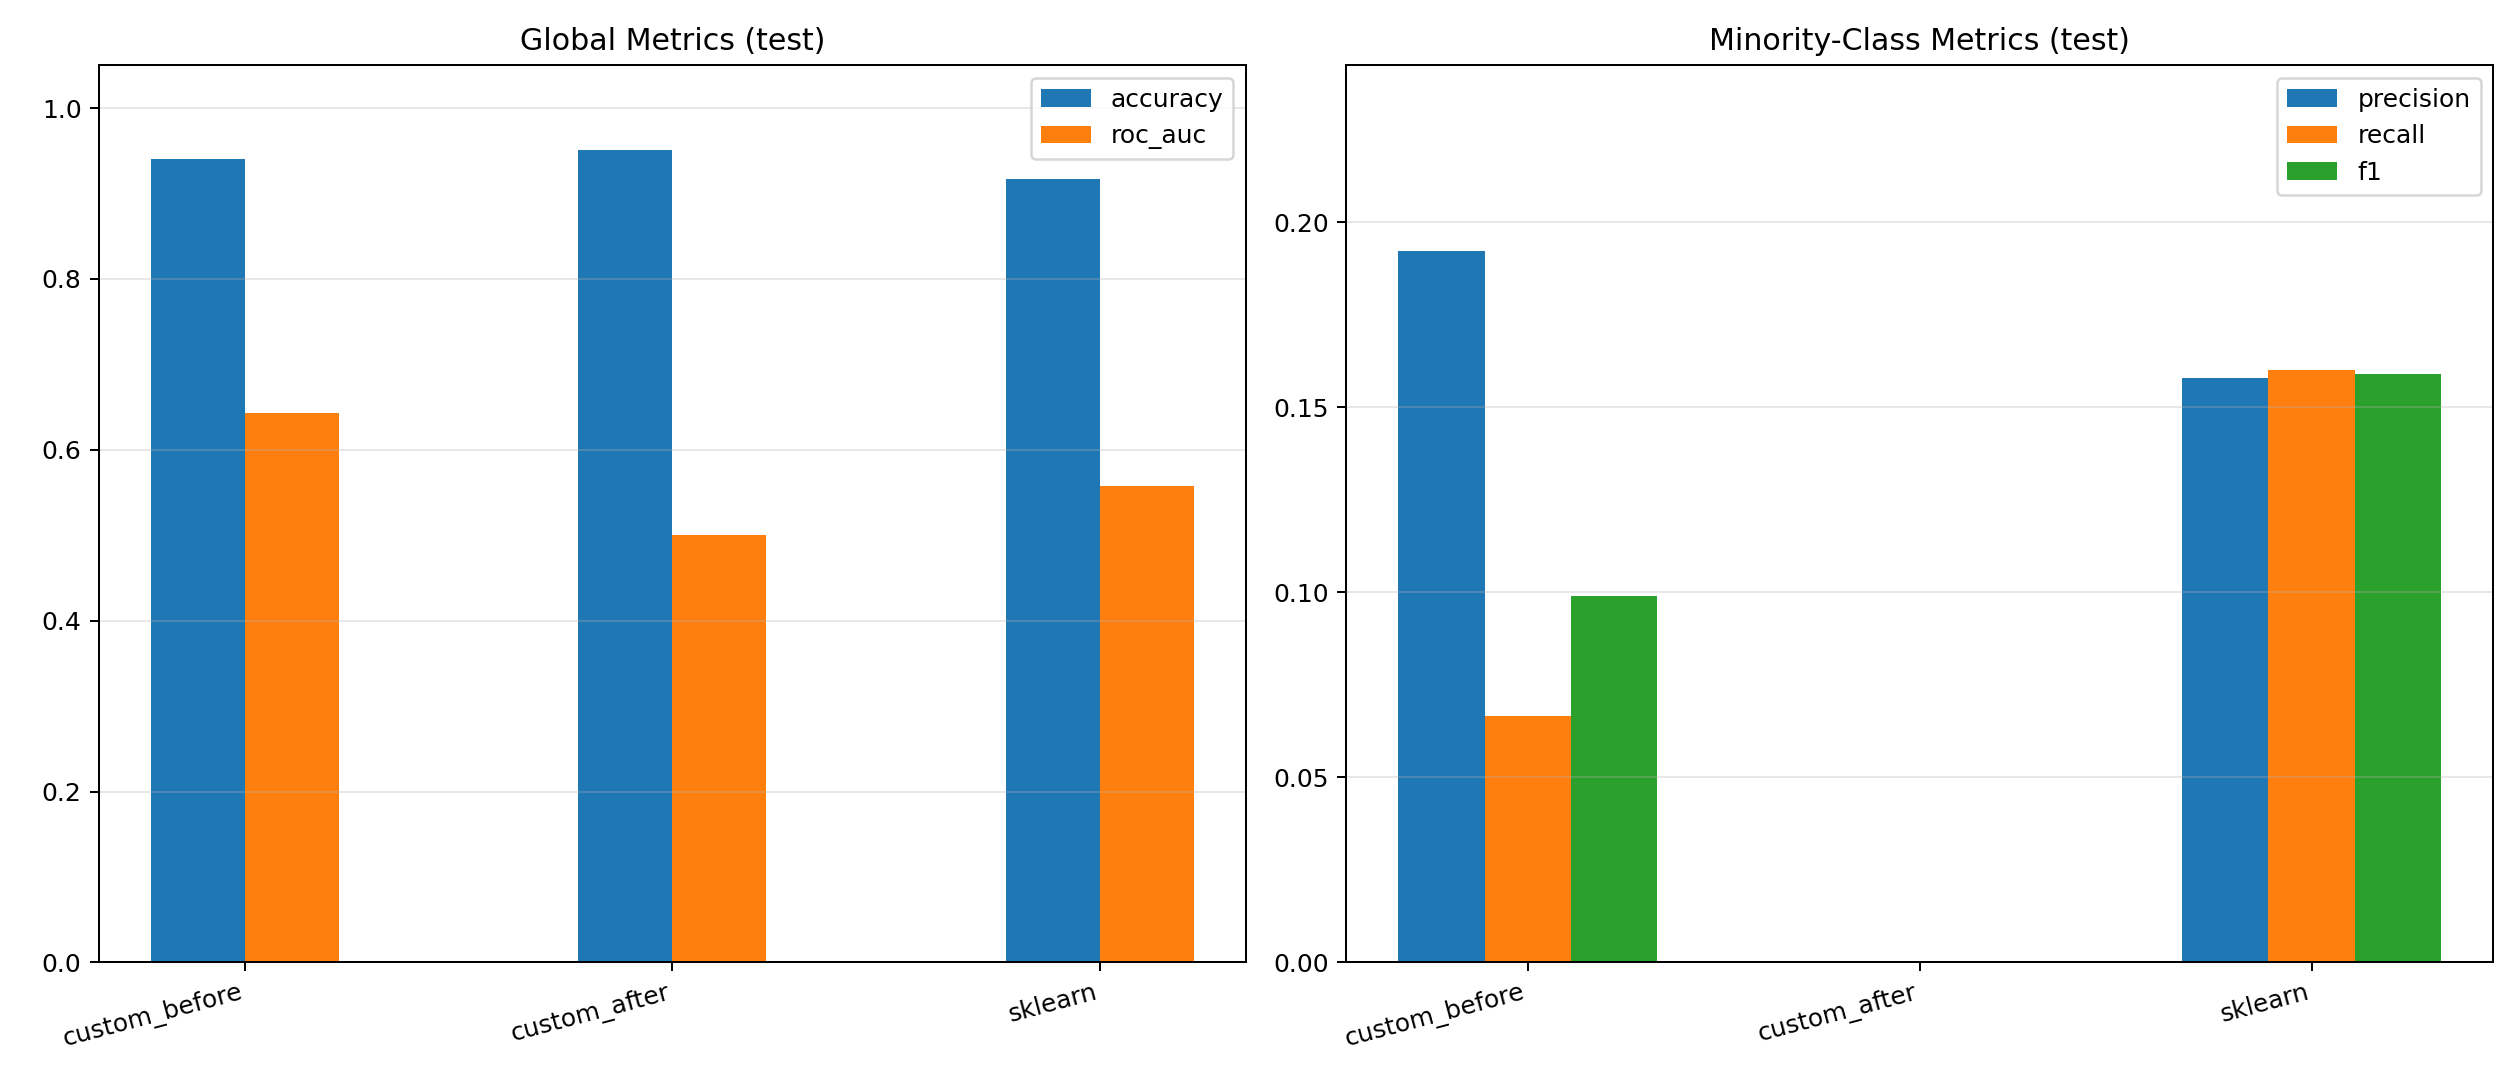
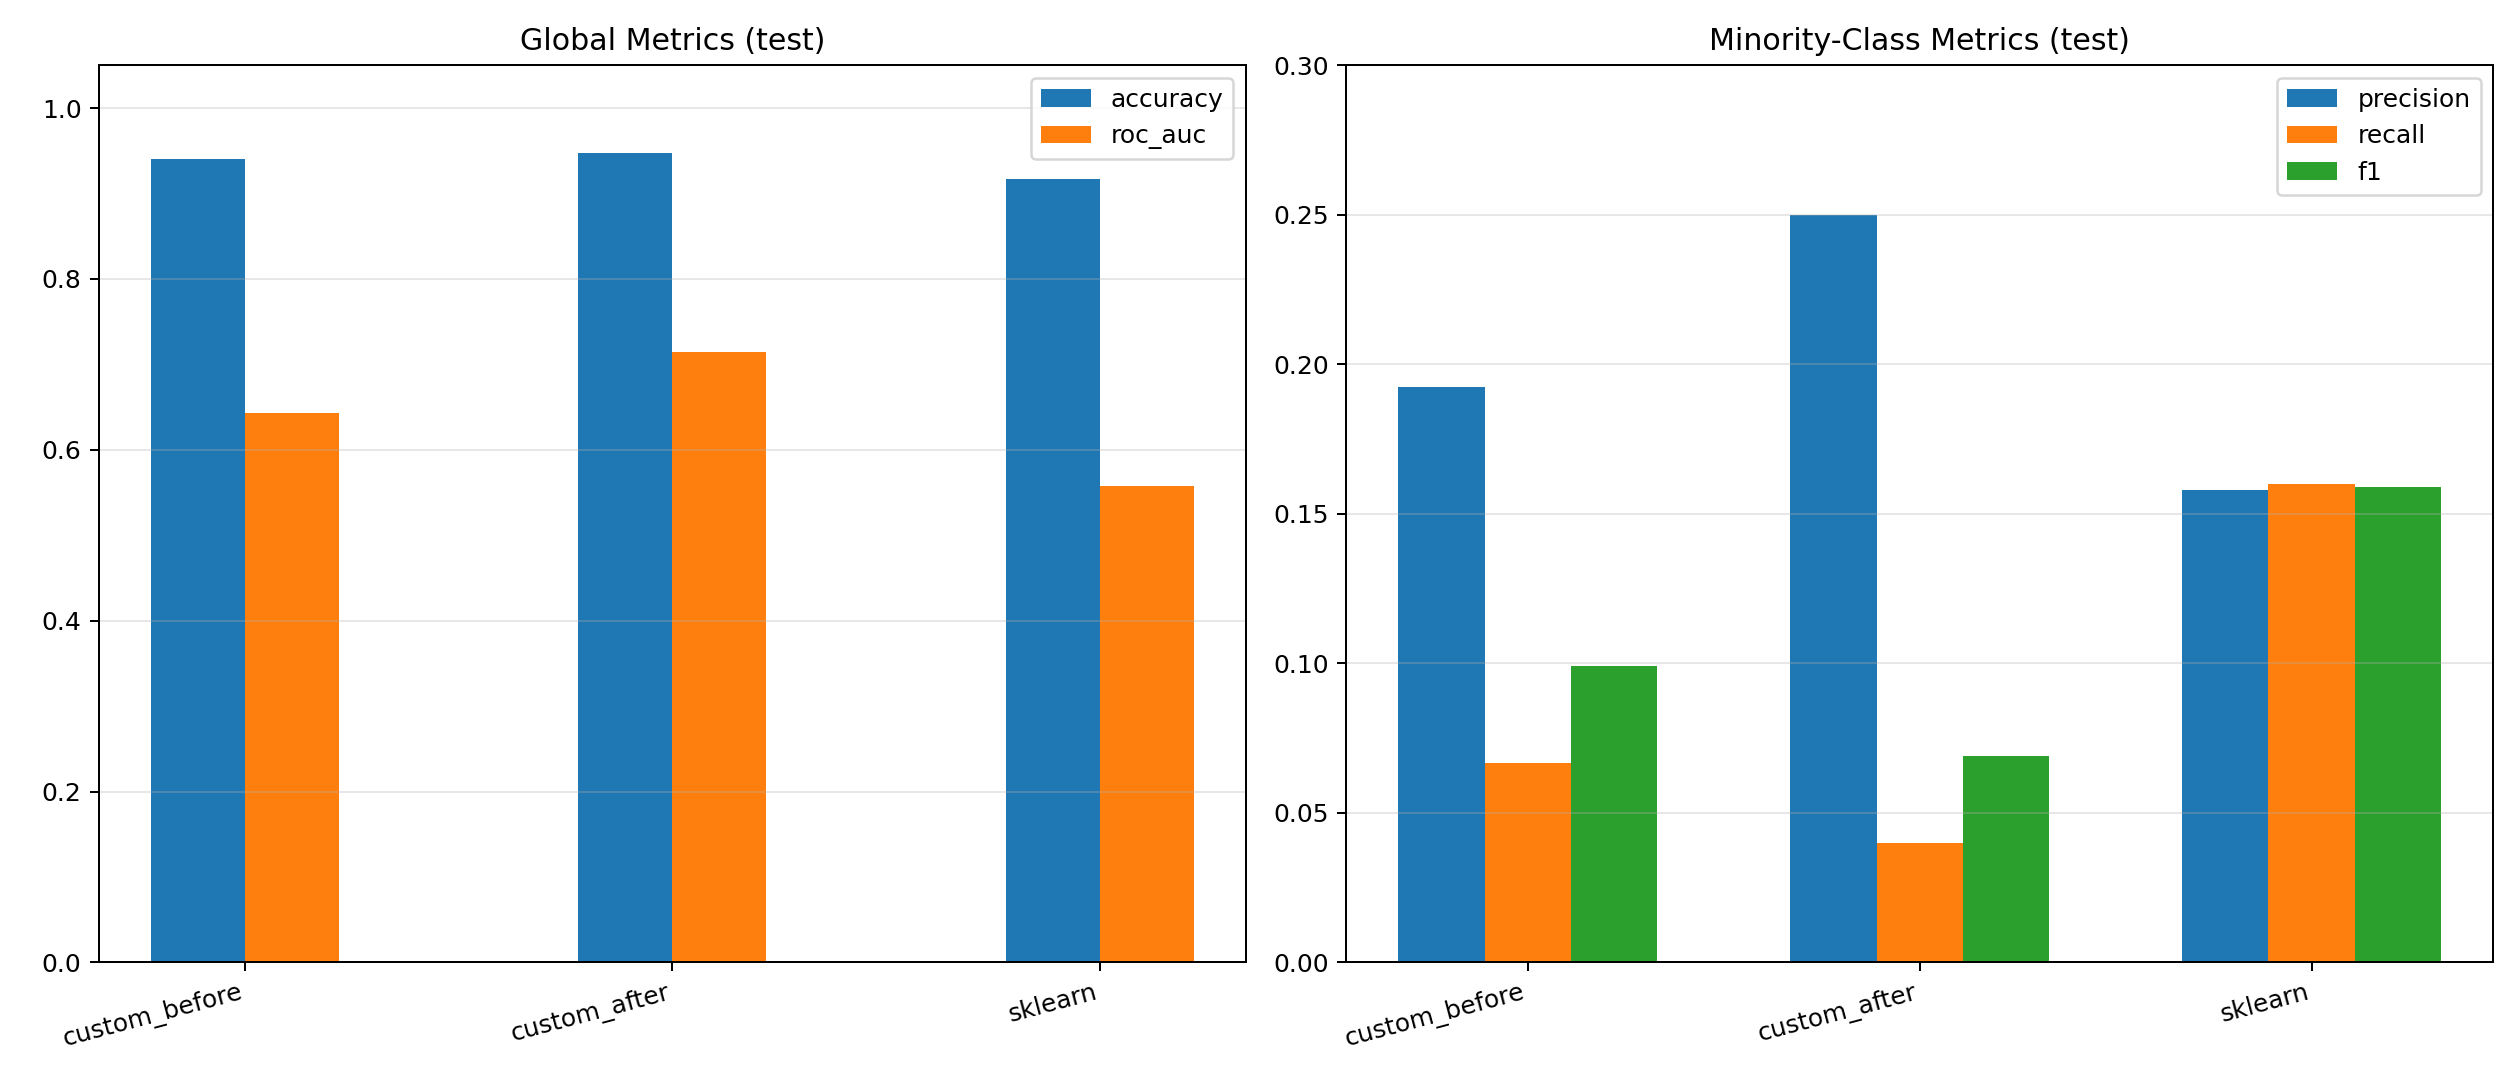
lab1

diff --git a/students/shinyakov-ad/lab1/src/model/decision_tree.py b/students/shinyakov-ad/lab1/src/model/decision_tree.py
@@ -53,6 +53,18 @@ class DecisionTree():
         y_pred = np.asarray(self.predict(X))
         return float(np.mean(y_pred == y))
 
+    def _f1(self, X, y):
+        y_true = np.asarray(y)
+        y_pred = np.asarray(self.predict(X))
+        tp = np.sum((y_pred == 1) & (y_true == 1))
+        fp = np.sum((y_pred == 1) & (y_true == 0))
+        fn = np.sum((y_pred == 0) & (y_true == 1))
+        precision = tp / (tp + fp) if (tp + fp) > 0 else 0.0
+        recall = tp / (tp + fn) if (tp + fn) > 0 else 0.0
+        if precision + recall == 0:
+            return 0.0
+        return float(2 * precision * recall / (precision + recall))
+
     def _prune_node(self, node, X_val, y_val):
         if node is None or node.value is not None:
             return
@@ -61,6 +73,7 @@ class DecisionTree():
         self._prune_node(node.right, X_val, y_val)
 
         acc_before = self._accuracy(X_val, y_val)
+        f1_before = self._f1(X_val, y_val)
 
         old_state = (
             node.value,
@@ -78,7 +91,9 @@ class DecisionTree():
         node.feature_index = None
         node.threshold = None
 
-        if self._accuracy(X_val, y_val) < acc_before:
+        acc_after = self._accuracy(X_val, y_val)
+        f1_after = self._f1(X_val, y_val)
+        if acc_after < acc_before or f1_after < f1_before:
             (
                 node.value,
                 node.left,
